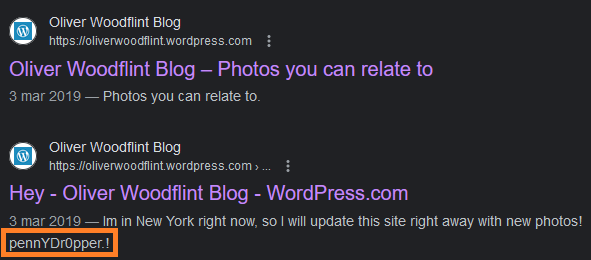
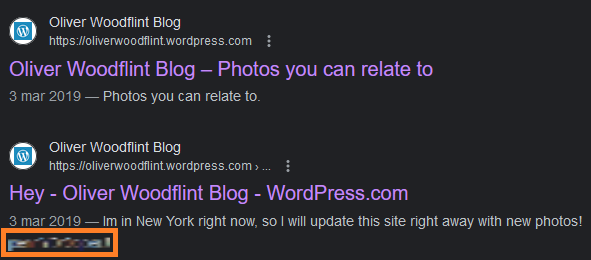
thm: obfuscated and removed answers

Changed region(s): [[0.0, 0.8923, 0.2132, 0.9846]]

diff --git a/TryHackMe/OhSINT/OhSINT.md b/TryHackMe/OhSINT/OhSINT.md
@@ -30,8 +30,6 @@ Since the question mentioned a 'user avatar,' I searched for the value of the pr
 
 As we can see from the image, by examining the avatar, we obtain the information we need.
 
-The answer is: ```cat```
-
 ### Question 2 - *What city is this person in?*
 
 #### Hint: BSSID + Wigle.net
@@ -50,8 +48,6 @@ I filtered the results using the BSSID we found and obtained a circle indicating
 
 ![Alt text](./imgs/wigle-dot-net-search.png?raw=true "wigle.net bssid search")
 
-The answer is: ```London```
-
 ### Question 3 - *What is the SSID of the WAP he connected to?*
 
 For this question, the result is in the search we conducted in the previous question. However, to access this information, we need to register on the site. Once registered, the information can be viewed by clicking on the marker on the map.
@@ -59,8 +55,6 @@ For this question, the result is in the search we conducted in the previous ques
 ![Alt text](./imgs/wigle-advanced-search.png?raw=true "wigle.net advanced search")
 
 As we can see from the image, by examining the popup, we obtain the information we need.
-
-The answer is: ```UnileverWiFi```.
 
 ### Question 4 - *What is his personal email address?*
 
@@ -76,13 +70,9 @@ Within the repository, in the ```README.md``` file we can see the email that we 
 
 ![Alt text](./imgs/people-finder-repository.png?raw=true "people finder repository")
 
-The answer is: ```OWoodflint@gmail.com```
-
 ### Question 5 - *What site did you find his email address on?*
 
 We got the answer from the previous question!
-
-The answer is: ```GitHub```
 
 ### Question 6 - *Where has he gone on holiday?*
 
@@ -100,9 +90,7 @@ The second one caught my interest because it mentioned a "journey", so it could 
 
 ![Alt text](./imgs/blog-post.png?raw=true "waybback machine matching urls")
 
-In the blog post, I discovered a mention of New York, so this could be the answer we are looking for!
-
-The answer is: ```New York```
+In the blog post, I discovered a mention of a city, so this could be the answer we are looking for!
 
 ### Question 7 - *What is the person's password?*
 
@@ -125,5 +113,3 @@ I then took it a step further and pressed ```F12``` to inspect that element on t
 ![Alt text](./imgs/blog-post-secret-analyze.png?raw=true "waybback machine matching urls")
 
 From the source code we can see that the color text is #ffffff (white), explaining why it wasn't visible. This must to be the "password"!
-
-The answer is: ```pennYDr0pper.!```
